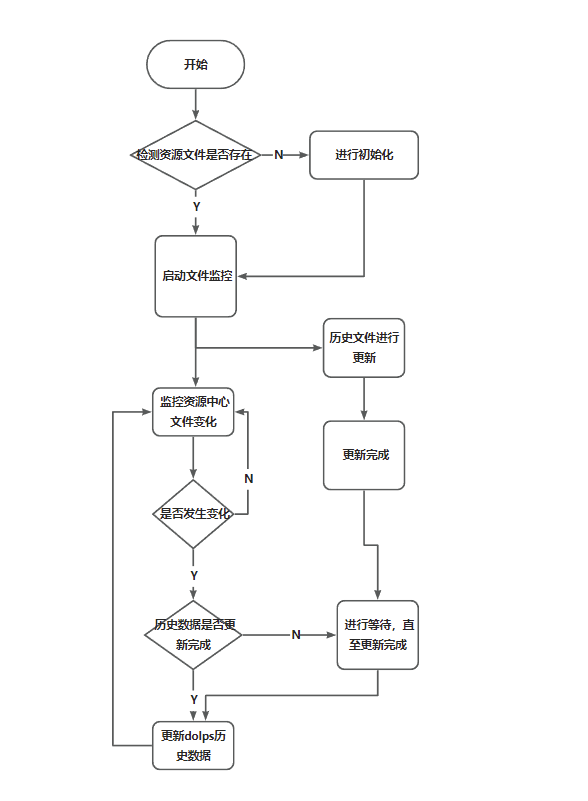
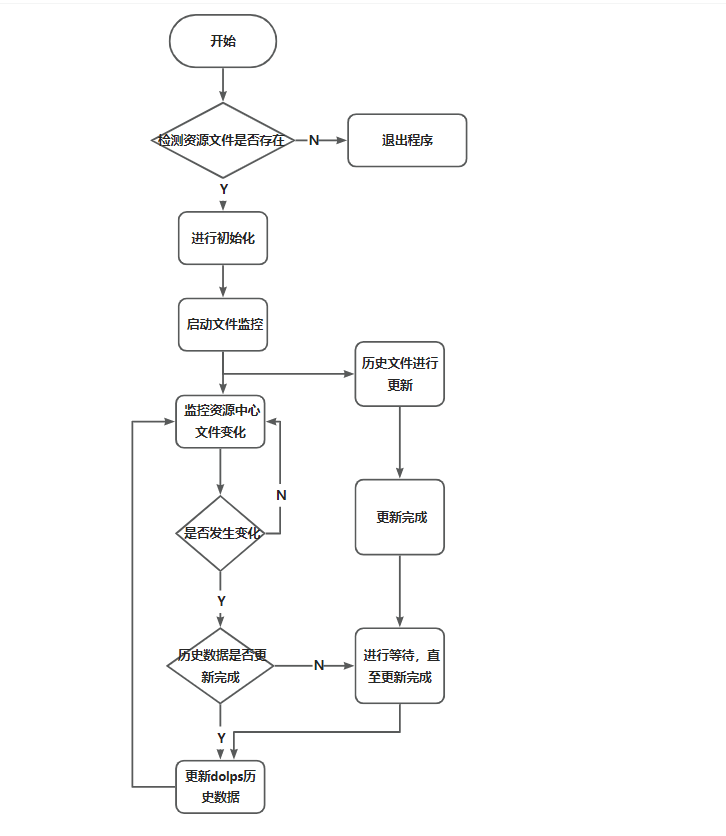
流程图修改

diff --git a/src/main.py b/src/main.py
@@ -6,7 +6,7 @@ from file_source_monitor import SourceMonitor
 
 
 if __name__ == '__main__':
-    # 判断linux存放的源目录是否存在,假如不存在就创造
+    # 判断linux存放的源目录是否存在,假如不存在就退出
     if not os.path.exists(configure.src_dir):
         logger.error(configure.src_dir + ': source is not exist')
         exit('source is not exist')
